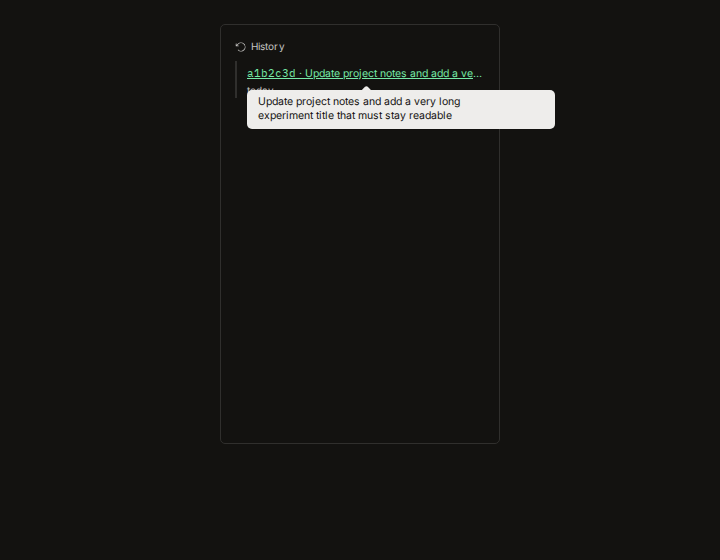
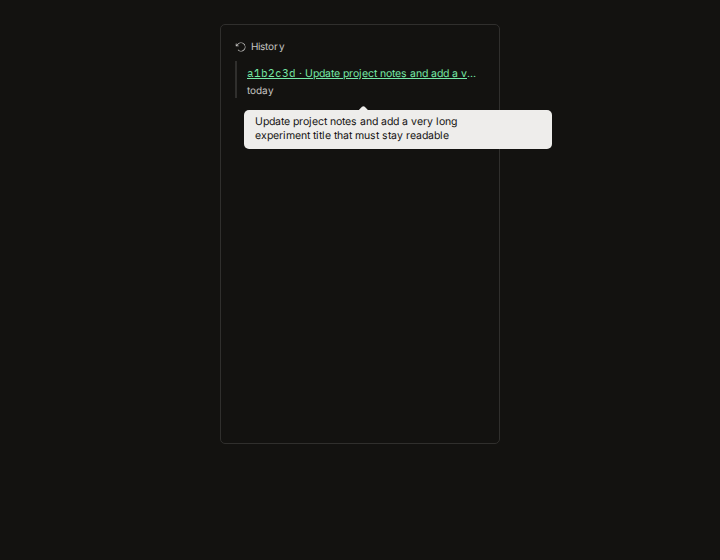
fix: inset the History focus ring inside row padding
The 2px inset ring sat on the icon and the time because the button
had no horizontal padding. History rows use px-1.5 and the inspector
row uses px-1, still ring-inset. The inspector tooltip offset clears
the date line, and the chevron mousedown no longer takes focus.

QA: Graphite and Earth focus shots recaptured.
Tests: changed files 99 passed. pnpm test — 7644 passed, 1 skipped.
pnpm lint and pnpm typecheck passed.
Localization: none — English only (C18).
PostHog: no event needed because this is a focus ring on existing rows.
ADRs: none.

Changed region(s): [[0.3361, 0.1214, 0.7944, 0.2732]]

diff --git a/src/components/PulseView.test.tsx b/src/components/PulseView.test.tsx
@@ -279,16 +279,20 @@ describe('PulseView', () => {
     expect(surface?.className).toContain('hover:bg-accent/40')
     expect(surface?.className).toContain('focus-within:bg-accent/40')
     expect(hasExpandedBackground(surface?.className ?? '')).toBe(false)
+    expect(commitRow.className).toContain('-mx-1.5')
+    expect(commitRow.className).toContain('px-1.5')
+    expect(commitRow.className).toContain('rounded-sm')
     expect(commitRow.className).toContain('focus-visible:ring-2')
+    expect(commitRow.className).toContain('focus-visible:ring-inset')
     expect(commitRow.className).toContain('focus-visible:ring-[var(--state-focus-ring)]')
     expect(commitRow).toHaveAttribute('aria-expanded', 'false')
     expect(surface).toContainElement(hashLink)
     expect(commitRow).not.toContainElement(hashLink)
     const chevron = surface?.querySelector('button[aria-hidden="true"]')
     expect(chevron).toHaveAttribute('tabindex', '-1')
-
-    fireEvent.click(commitRow)
-
+    fireEvent.mouseDown(chevron!)
+    expect(chevron).not.toHaveFocus()
+    fireEvent.click(chevron!)
     expect(commitRow).toHaveAttribute('aria-expanded', 'true')
     expect(hasExpandedBackground(surface?.className ?? '')).toBe(true)
   })

diff --git a/src/components/inspector/GitHistoryPanel.tsx b/src/components/inspector/GitHistoryPanel.tsx
@@ -34,9 +34,9 @@ export function GitHistoryPanel({ commits, onViewCommitDiff }: { commits: GitCom
           const subject = commitSubject(c.message)
           return (
             <div key={c.hash} style={{ borderLeft: '2px solid var(--border)', paddingLeft: 10 }}>
-              <CommitSubjectTooltip subject={subject} side="bottom">
+              <CommitSubjectTooltip subject={subject} side="bottom" sideOffset={20}>
                 <button type="button"
-                  className={`mb-0.5 w-full cursor-pointer truncate border-none bg-transparent p-0 text-left text-xs text-primary hover:underline ${INSPECTOR_ROW_FOCUS_CLASS_NAME}`}
+                  className={`-mx-1 mb-0.5 w-full cursor-pointer truncate rounded-sm border-none bg-transparent px-1 py-0 text-left text-xs text-primary hover:underline ${INSPECTOR_ROW_FOCUS_CLASS_NAME}`}
                   onClick={() => onViewCommitDiff?.(c.hash)}
                   aria-label={commitRowName(c.shortHash, subject)}
                 >

diff --git a/src/components/PulseView.tsx b/src/components/PulseView.tsx
@@ -164,7 +164,7 @@ function CommitCard({
           <button
             type="button"
             className={cn(
-              'flex min-w-0 flex-1 items-start justify-between border-none bg-transparent py-2 text-left transition-colors',
+              '-mx-1.5 flex min-w-0 flex-1 items-start justify-between rounded-sm border-none bg-transparent px-1.5 py-2 text-left transition-colors',
               PULSE_ROW_FOCUS_CLASS_NAME,
             )}
             style={{ gap: 8 }}
@@ -208,6 +208,7 @@ function CommitCard({
           aria-hidden="true"
           className="mt-2 flex shrink-0 cursor-pointer items-center justify-center rounded border-none bg-transparent p-0 text-muted-foreground hover:text-foreground"
           style={{ width: 20, height: 20 }}
+          onMouseDown={(event) => event.preventDefault()}
           onClick={toggleExpanded}
         >
           <Chevron size={12} />

diff --git a/src/components/CommitSubjectTooltip.tsx b/src/components/CommitSubjectTooltip.tsx
@@ -4,10 +4,12 @@ import { Tooltip, TooltipContent, TooltipTrigger } from '@/components/ui/tooltip
 export function CommitSubjectTooltip({
   subject,
   side = 'top',
+  sideOffset = 4,
   children,
 }: {
   subject: string
   side?: 'top' | 'bottom' | 'left' | 'right'
+  sideOffset?: number
   children: ReactElement
 }) {
   if (!subject) return children
@@ -15,7 +17,7 @@ export function CommitSubjectTooltip({
   return (
     <Tooltip>
       <TooltipTrigger asChild>{children}</TooltipTrigger>
-      <TooltipContent side={side} align="start" className="break-words">
+      <TooltipContent side={side} sideOffset={sideOffset} align="start" className="break-words">
         <span aria-hidden="true">{subject}</span>
       </TooltipContent>
     </Tooltip>

diff --git a/src/components/InspectorPanels.test.tsx b/src/components/InspectorPanels.test.tsx
@@ -800,7 +800,11 @@ describe('GitHistoryPanel', () => {
     expect(row).toHaveClass('truncate')
     expect(row).toHaveAccessibleName(`abc1234 · ${longSubject}. View diff`)
     expect(row).not.toHaveAttribute('title', 'View diff for abc1234')
+    expect(row.className).toContain('-mx-1')
+    expect(row.className).toContain('px-1')
+    expect(row.className).toContain('rounded-sm')
     expect(row.className).toContain('focus-visible:ring-2')
+    expect(row.className).toContain('focus-visible:ring-inset')
     expect(row.className).toContain('focus-visible:ring-[var(--state-focus-ring)]')
 
     fireEvent.focus(row)

diff --git a/docs/plans/handoffs/2026-10-17-1748-cursor-grok-4-6-history-commit-title.md b/docs/plans/handoffs/2026-10-17-1748-cursor-grok-4-6-history-commit-title.md
@@ -28,6 +28,12 @@ Review shots in `docs/review-shots/history-commit-title/`:
 - `earth-after-history-hover.png`
 - `earth-after-history-focus.png`
 - `earth-after-inspector-hover.png`
+- `after-inspector-focus.png`
+- `earth-after-inspector-focus.png`
+
+The History and inspector focus rings are inset with horizontal padding
+so the ring does not cover the icon or the time. The inspector tooltip
+uses a larger side offset so it clears the relative date.
 
 Regenerate after shots with `pnpm dev` and
 `SHOT_PHASE=after node scripts/capture-history-commit-title.mjs`.
